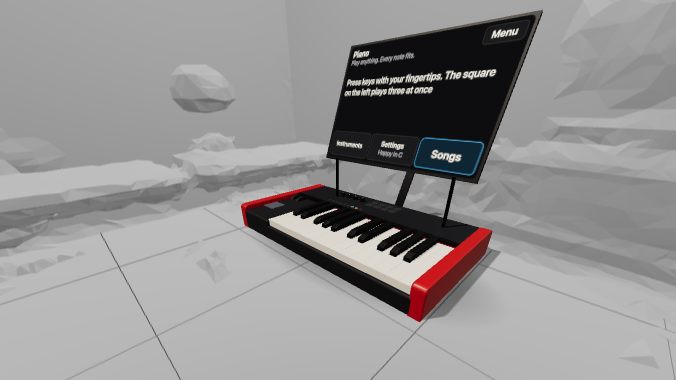
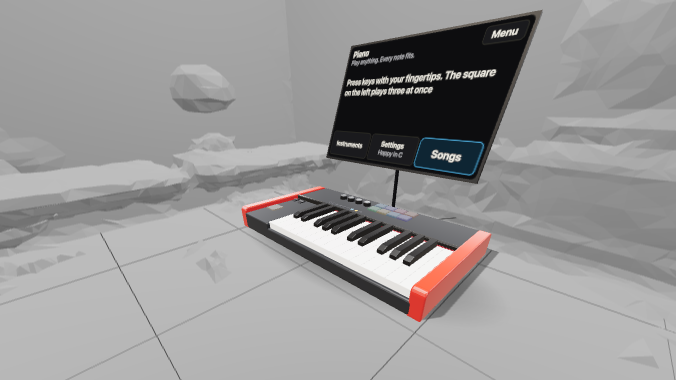
The keyboard's panel per the review: aluminium-capped knobs, 24 mm pads lit in their colours, a framed chord pad, wheels in a well; in C major the white keys are the real notes; new contact sheets

Changed region(s): [[0.3417, 0.4053, 0.7456, 0.8395]]

diff --git a/src/scene-assets/lib/piano.ts b/src/scene-assets/lib/piano.ts
@@ -11,7 +11,7 @@ import { woodGrain } from './surfaces.js';
 export const KEY = {
   /** White key pitch (centre to centre) and the gap between keys. */
   pitch: 0.0235,
-  gap: 0.001,
+  gap: 0.0014,
   /** Visible white key length and thickness. */
   length: 0.15,
   thick: 0.014,
@@ -20,7 +20,7 @@ export const KEY = {
   blackL: 0.095,
   blackH: 0.0105,
   /** Height of the white key tops above the desk (a slim compact keyboard's). */
-  top: 0.042,
+  top: 0.036,
   /** Full press: how far the front dips (radians about the back pivot). */
   press: 0.055,
 } as const;
@@ -52,7 +52,7 @@ function named<T extends Object3D>(o: T, name: string): T {
   return o;
 }
 
-const ivory = () => new MeshPhysicalMaterial({ name: 'Ivory', color: 0xf4eedf, roughness: 0.32, clearcoat: 0.6, clearcoatRoughness: 0.18 });
+const ivory = () => new MeshPhysicalMaterial({ name: 'Ivory', color: 0xf6f5f1, roughness: 0.32, clearcoat: 0.25, clearcoatRoughness: 0.2 });
 const ebony = () => new MeshPhysicalMaterial({ name: 'Ebony', color: 0x131315, roughness: 0.5, clearcoat: 0.35, clearcoatRoughness: 0.3 });
 const lacquer = () => new MeshPhysicalMaterial({ name: 'Lacquer', color: 0x0c0c0e, roughness: 0.32, clearcoat: 1, clearcoatRoughness: 0.08 });
 const felt = () => new MeshStandardMaterial({ name: 'Felt', color: 0x8e1e26, roughness: 1 });
@@ -160,9 +160,9 @@ export function buildPiano(opts: PianoOptions = {}): PianoParts {
   const bodyW = width + L;
   const bx = -L / 2;
   const topY = KEY.top + 0.004;
-  const graphite = new MeshPhysicalMaterial({ name: 'Body', color: 0x232428, roughness: 0.55, metalness: 0.1, clearcoat: 0.25, clearcoatRoughness: 0.45 });
+  const graphite = new MeshPhysicalMaterial({ name: 'Body', color: 0x2b2d31, roughness: 0.55, metalness: 0.1, clearcoat: 0.25, clearcoatRoughness: 0.45 });
   const red = new MeshPhysicalMaterial({ name: 'EndCap', color: 0xc2271c, roughness: 0.4, clearcoat: 0.6, clearcoatRoughness: 0.2 });
-  const plate = new MeshStandardMaterial({ name: 'TopPlate', color: 0x17181b, roughness: 0.62 });
+  const plate = new MeshStandardMaterial({ name: 'TopPlate', color: 0x1a1b1e, roughness: 0.62 });
   const block = (name: string, m: MeshStandardMaterial, w: number, h: number, d: number, x: number, y: number, z: number, r = 0.003) => {
     const o = named(new Mesh(rounded(w, h, d, r), m), name);
     o.position.set(x, y, z);
@@ -207,39 +207,50 @@ export function buildPiano(opts: PianoOptions = {}): PianoParts {
   }
   // on the top panel, left to right: the screen, four knobs, the eight pads, the speaker grille; buttons along the front
   const px0 = bx - bodyW / 2 + 0.02;
-  const lcd = named(new Mesh(new BoxGeometry(0.06, 0.0012, 0.022), new MeshStandardMaterial({ name: 'Display', color: 0x0b1416, emissive: 0x123a4a, emissiveIntensity: 0.6, roughness: 0.15 })), 'Display');
+  const lcd = named(new Mesh(new BoxGeometry(0.06, 0.0012, 0.022), new MeshStandardMaterial({ name: 'Display', color: 0x0b1416, emissive: 0x1a5068, emissiveIntensity: 1.2, roughness: 0.15 })), 'Display');
   lcd.position.set(px0 + 0.035, topY + 0.0012, panZ - 0.012);
   root.add(lcd);
-  const knob = new CylinderGeometry(0.0065, 0.007, 0.011, 24);
+  // four knobs with brushed aluminium caps and a white pointer, a fine printed line under the row
+  const knob = new CylinderGeometry(0.009, 0.0095, 0.011, 28);
+  const cap = new CylinderGeometry(0.0072, 0.0072, 0.0015, 28);
   const knobMat = new MeshStandardMaterial({ name: 'Knob', color: 0x111113, roughness: 0.42 });
-  const markMat = new MeshStandardMaterial({ name: 'Mark', color: 0xf0f0f0, roughness: 0.5 });
-  const ringMat = new MeshStandardMaterial({ name: 'KnobRing', color: 0x2a1a08, emissive: 0xffa040, emissiveIntensity: 0.4 });
+  const capMat = new MeshStandardMaterial({ name: 'KnobCap', color: 0xb9bdc3, metalness: 1, roughness: 0.35 });
+  const markMat = new MeshStandardMaterial({ name: 'Mark', color: 0xf4f4f4, roughness: 0.5 });
+  const silk = new MeshStandardMaterial({ name: 'Print', color: 0xcfcfcf, roughness: 0.6 });
   for (let k = 0; k < 4; k++) {
-    const kx = px0 + 0.085 + k * 0.022;
+    const kx = px0 + 0.09 + k * 0.026;
     const kn = new Mesh(knob, knobMat);
-    kn.position.set(kx, topY + 0.0055, panZ - 0.014);
-    const mk = new Mesh(new BoxGeometry(0.0012, 0.0006, 0.005), markMat);
-    mk.position.set(kx, topY + 0.0113, panZ - 0.0155);
+    kn.position.set(kx, topY + 0.0055, panZ - 0.012);
+    const c = new Mesh(cap, capMat);
+    c.position.set(kx, topY + 0.0115, panZ - 0.012);
+    const mk = new Mesh(new BoxGeometry(0.0015, 0.0006, 0.0065), markMat);
+    mk.position.set(kx, topY + 0.0125, panZ - 0.0145);
     mk.rotation.y = (k * 0.9) % 1.8 - 0.9;
-    const ring = new Mesh(new CylinderGeometry(0.0085, 0.0085, 0.0008, 24, 1, true), ringMat);
-    ring.position.set(kx, topY + 0.0006, panZ - 0.014);
-    root.add(kn, mk, ring);
+    root.add(kn, c, mk);
   }
-  // the pads: soft rubber squares, backlit (named Pad0..7: they light in colour as you play)
-  const padGeo = rounded(0.017, 0.004, 0.017, 0.002);
+  const line = (x0: number, x1: number, z: number) => {
+    const l = new Mesh(new BoxGeometry(x1 - x0, 0.0004, 0.0006), silk);
+    l.position.set((x0 + x1) / 2, topY + 0.0003, z);
+    root.add(l);
+  };
+  line(px0 + 0.078, px0 + 0.18, panZ + 0.004);
+  // the pads: soft rubber squares, 24 mm, faintly lit in their colours at rest (named Pad0..7: they light up as you play)
+  const padGeo = rounded(0.024, 0.005, 0.024, 0.003);
   const pads = named(new Group(), 'Pads');
+  const pad0 = px0 + 0.2;
   for (let k = 0; k < 8; k++) {
-    const pad = named(new Mesh(padGeo, new MeshStandardMaterial({ name: `Pad${k}`, color: 0x2c2d31, roughness: 0.85, emissive: 0x000000 })), `Pad${k}`);
-    pad.position.set(px0 + 0.185 + (k % 4) * 0.021, topY + 0.002, panZ - 0.022 + Math.floor(k / 4) * 0.021);
+    const pad = named(new Mesh(padGeo, new MeshStandardMaterial({ name: `Pad${k}`, color: 0x4a4c52, roughness: 0.85, emissive: 0x000000 })), `Pad${k}`);
+    pad.position.set(pad0 + (k % 4) * 0.027, topY + 0.0025, panZ - 0.027 + Math.floor(k / 4) * 0.027);
     pads.add(pad);
   }
   root.add(pads);
+  line(pad0 - 0.014, pad0 + 3 * 0.027 + 0.014, panZ + 0.017);
   // the speaker grille: a field of slots at the right end
-  const slot = new BoxGeometry(0.03, 0.0008, 0.0022);
+  const slot = new BoxGeometry(0.02, 0.0008, 0.0022);
   const slotMat = new MeshStandardMaterial({ name: 'Grille', color: 0x050506, roughness: 0.9 });
-  const gx = bx + bodyW / 2 - 0.035;
+  const gx = bx + bodyW / 2 - 0.03;
   for (let k = 0; k < 11; k++) {
-    for (const dx of [-0.017, 0.017]) {
+    for (const dx of [-0.011, 0.011]) {
       const sl = new Mesh(slot, slotMat);
       sl.position.set(gx + dx, topY + 0.0004, panZ - panelD / 2 + 0.014 + k * 0.0065);
       root.add(sl);

diff --git a/src/scene-assets/lib/instruments.ts b/src/scene-assets/lib/instruments.ts
@@ -69,8 +69,8 @@ export class PianoModel implements DeskModel {
   private spring = new Springs(48);
   private readonly lacquer = new MeshPhysicalMaterial({ name: 'Lacquer', color: 0x0c0c0e, roughness: 0.32, metalness: 0.05, clearcoat: 1, clearcoatRoughness: 0.08 });
   private readonly satin = new MeshStandardMaterial({ name: 'Satin', color: 0x111113, roughness: 0.55 });
-  private readonly wheelMat = new MeshStandardMaterial({ name: 'Wheel', color: 0x1c1c1f, roughness: 0.6 });
-  private readonly padMat = new MeshStandardMaterial({ name: 'ChordPad', color: 0x55575e, roughness: 0.8, emissive: 0xffe6b8, emissiveIntensity: 0 });
+  private readonly wheelMat = new MeshStandardMaterial({ name: 'Wheel', color: 0x26262a, roughness: 0.75, flatShading: true });
+  private readonly padMat = new MeshStandardMaterial({ name: 'ChordPad', color: 0x4a4c52, roughness: 0.85, emissive: 0xffe6b8, emissiveIntensity: 0.12 });
   private padGlow = 0;
 
   layout(zones: readonly Zone[]): void {
@@ -92,22 +92,37 @@ export class PianoModel implements DeskModel {
     this.pads = [];
     parts.root.getObjectByName('Pads')?.children.forEach((c) => this.pads.push((c as Mesh).material as MeshStandardMaterial));
     this.padK = this.pads.map(() => 0);
+    // (each pad faintly lit in its own colour at rest)
+    this.pads.forEach((m, k) => {
+      m.emissive.setHex(PAD_COLOURS[k % PAD_COLOURS.length]);
+      m.emissiveIntensity = 0.08;
+    });
     this.power = ((parts.root.getObjectByName('Power') as Mesh | undefined)?.material as MeshStandardMaterial | undefined) ?? null;
     const mids = [...parts.keys.keys()].sort((a, b) => a - b);
     for (const m of mids) (isBlack(m) ? this.blacks : this.keys).push(parts.keys.get(m)!);
     // on the end panel, as on a stage keyboard: pitch and mod wheels at the back, and in front of them the chord
     // pad, a square that lights when it plays a chord
     if (chord) {
-      const podH = KEYBOARD.top - 0.004;
-      const wheel = new CylinderGeometry(0.02, 0.02, 0.009, 32);
-      for (const dx of [-0.011, 0.011]) {
+      const podH = KEYBOARD.top - 0.003;
+      // the pitch and mod wheels, ribbed rubber with a white index line, standing in a dark well sunk in the panel
+      const well = named(new Mesh(new BoxGeometry(0.05, 0.002, 0.06), mat('Well', 0x0a0a0b, 0.9)), 'Well');
+      well.position.set(chord.x, podH - 0.0005, -chord.z - 0.075);
+      this.root.add(well);
+      const wheel = new CylinderGeometry(0.02, 0.02, 0.01, 24);
+      for (const dx of [-0.012, 0.012]) {
         const w = named(new Mesh(wheel, this.wheelMat), 'Wheel');
         w.rotation.z = Math.PI / 2;
-        w.position.set(chord.x + dx, podH - 0.008, -chord.z - 0.075);
-        this.root.add(w);
+        w.position.set(chord.x + dx, podH - 0.014, -chord.z - 0.075);
+        const idx = new Mesh(new BoxGeometry(0.0104, 0.0012, 0.0016), mat('Index', 0xf0f0f0, 0.5));
+        idx.position.set(chord.x + dx, podH + 0.006, -chord.z - 0.075);
+        this.root.add(w, idx);
       }
-      const pad = named(new Mesh(new BoxGeometry(chord.w * 1.7, 0.006, chord.w * 1.7), this.padMat), 'ChordPad');
-      this.buttonY = podH + 0.003;
+      // the chord pad: a 30 mm rubber pad, 4 mm proud in a darker frame, faintly lit at rest (one of the pads)
+      const frame = named(new Mesh(new BoxGeometry(0.035, 0.002, 0.035), mat('PadFrame', 0x141416, 0.8)), 'PadFrame');
+      frame.position.set(chord.x, podH + 0.001, -chord.z);
+      this.root.add(frame);
+      const pad = named(new Mesh(new BoxGeometry(0.03, 0.004, 0.03), this.padMat), 'ChordPad');
+      this.buttonY = podH + 0.004;
       pad.position.set(chord.x, this.buttonY, -chord.z);
       this.root.add(pad);
       this.button = pad;
@@ -120,10 +135,7 @@ export class PianoModel implements DeskModel {
     if (i === PIANO_CHORD) this.padGlow = 0.6 + 0.6 * gain;
     // (a key lights one of the panel's pads in its own colour, the way a controller echoes what you play)
     const k = this.pads.length ? i % this.pads.length : -1;
-    if (k >= 0) {
-      this.pads[k].emissive.setHex(PAD_COLOURS[i % PAD_COLOURS.length]);
-      this.padK[k] = 0.5 + 0.8 * gain;
-    }
+    if (k >= 0) this.padK[k] = 0.5 + 0.8 * gain;
   }
   private pads: MeshStandardMaterial[] = [];
   private padK: number[] = [];
@@ -141,14 +153,14 @@ export class PianoModel implements DeskModel {
     for (let k = 0; k < this.pads.length; k++) {
       if (this.padK[k] <= 0) continue;
       this.padK[k] = Math.max(0, this.padK[k] - dt * 2.5);
-      this.pads[k].emissiveIntensity = this.padK[k];
+      this.pads[k].emissiveIntensity = Math.max(0.08, this.padK[k]);
     }
     this.life += dt;
     if (this.power) this.power.emissiveIntensity = 0.45 + 0.35 * Math.sin(this.life * 1.3);
     // (it lights as it plays, 80 ms in, out over a quarter second)
     if (this.padGlow > 0) {
       this.padGlow = Math.max(0, this.padGlow - dt * 4);
-      this.padMat.emissiveIntensity = this.padGlow;
+      this.padMat.emissiveIntensity = Math.max(0.12, this.padGlow);
     }
   }
 }

diff --git a/src/kit/shelf.ts b/src/kit/shelf.ts
@@ -148,7 +148,7 @@ export function scaleMidi(root: number, scale: Scale, d: number): number {
  * The keyboard at real key size (src/scene-assets/lib/piano.ts): two octaves and a top C, fifteen white keys 23.5 mm
  * apart and 150 mm long, black keys 11 by 95 mm, the key tops 6 cm up in a deep case.
  */
-export const KEYBOARD = { whites: 15, pitch: 0.0235, gap: 0.001, len: 0.15, blackW: 0.011, blackLen: 0.095, front: -0.03, top: 0.042, blackTop: 0.0525, shift: 0.025 } as const;
+export const KEYBOARD = { whites: 15, pitch: 0.0235, gap: 0.0014, len: 0.15, blackW: 0.011, blackLen: 0.095, front: -0.03, top: 0.036, blackTop: 0.0465, shift: 0.025 } as const;
 /** Index of the piano's chord button (after its fifteen keys). */
 export const PIANO_CHORD = 15;
 /** A piano note's zone plus this is the same key two octaves down (the bass line). */
@@ -165,8 +165,11 @@ const KEYS_X0 = -(KEYBOARD.whites * KEYBOARD.pitch) / 2 + KEYBOARD.shift;
 export function pianoZones(root: number, scale: Scale): Zone[] {
   const out: Zone[] = [];
   const K = KEYBOARD;
+  // (a seven-note scale lies on the white keys as on a real piano: its tonic on a C, so in C major every key is the
+  // note printed on it, and in A minor too, from the A)
+  const at = scale.steps.length === 7 ? (scale.steps[2] === 3 ? 5 : 7) : TUNE_AT;
   for (let i = 0; i < K.whites; i++) {
-    const d = i - TUNE_AT;
+    const d = i - at;
     out.push({ i, shape: 'rect', x: KEYS_X0 + (i + 0.5) * K.pitch, z: K.front + K.len / 2, w: K.pitch - K.gap, h: K.len, degree: d, midi: scaleMidi(root, scale, d) });
   }
   out.push({ i: PIANO_CHORD, shape: 'disc', x: KEYS_X0 - 0.066, z: 0.03, w: 0.022, h: 0, degree: -1, midi: root - 12 });

diff --git a/src/songs/score.ts b/src/songs/score.ts
@@ -213,7 +213,11 @@ export function zoneOf(inst: 'piano' | 'marimba' | 'handpan', scale: string, d: 
     degs = instZones(inst as InstId, 60, scaleById(scale)).map((z) => (z.i === PIANO_CHORD && inst === 'piano' ? -99 : z.degree));
     zoneCache.set(id, degs);
   }
-  return degs.indexOf(d);
+  // (a note past either end of the instrument folds an octave in, as a player would take it)
+  const i = degs.indexOf(d);
+  if (i >= 0) return i;
+  const lo = degs.indexOf(d - 7);
+  return lo >= 0 ? lo : degs.indexOf(d + 7);
 }
 
 /** The handpan's note for a degree: its ding for the tonic in the bass, else the rim note of that name nearest it. */
